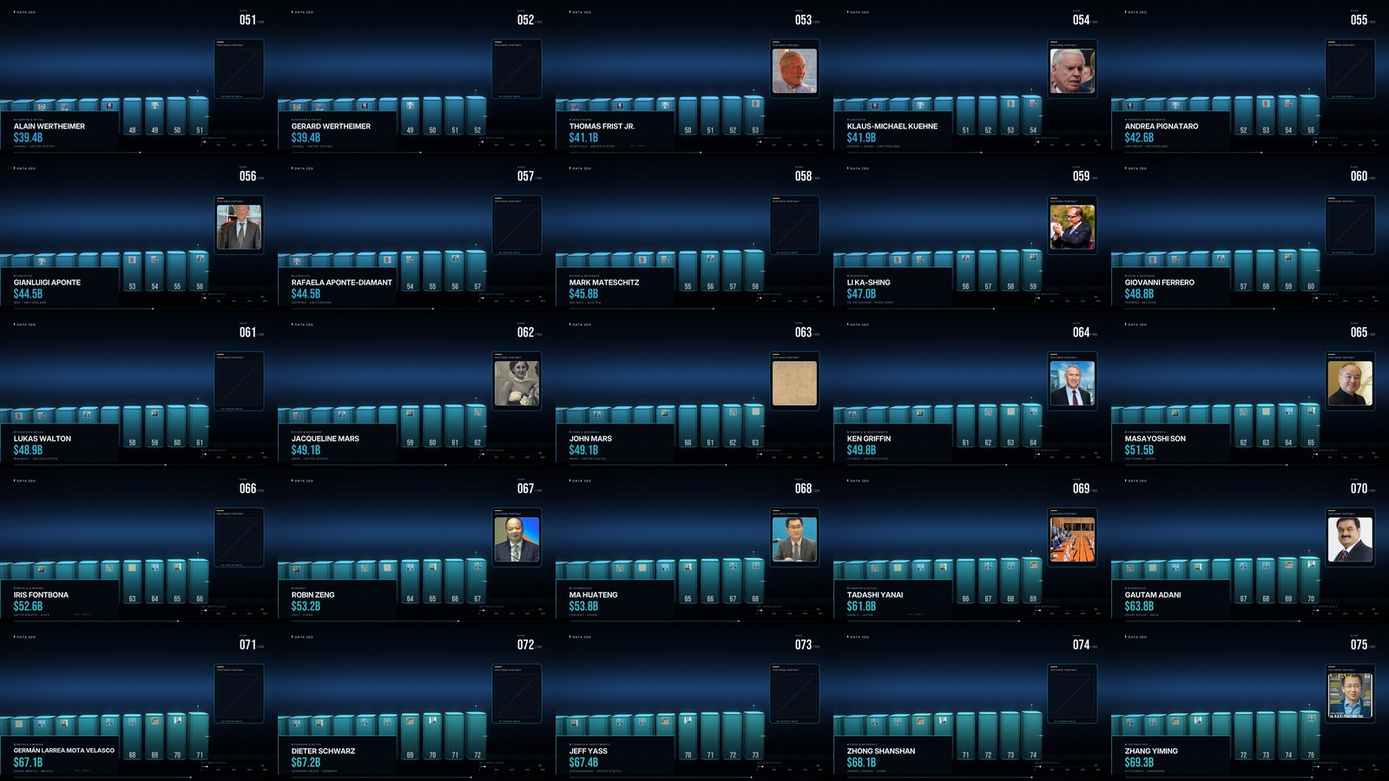
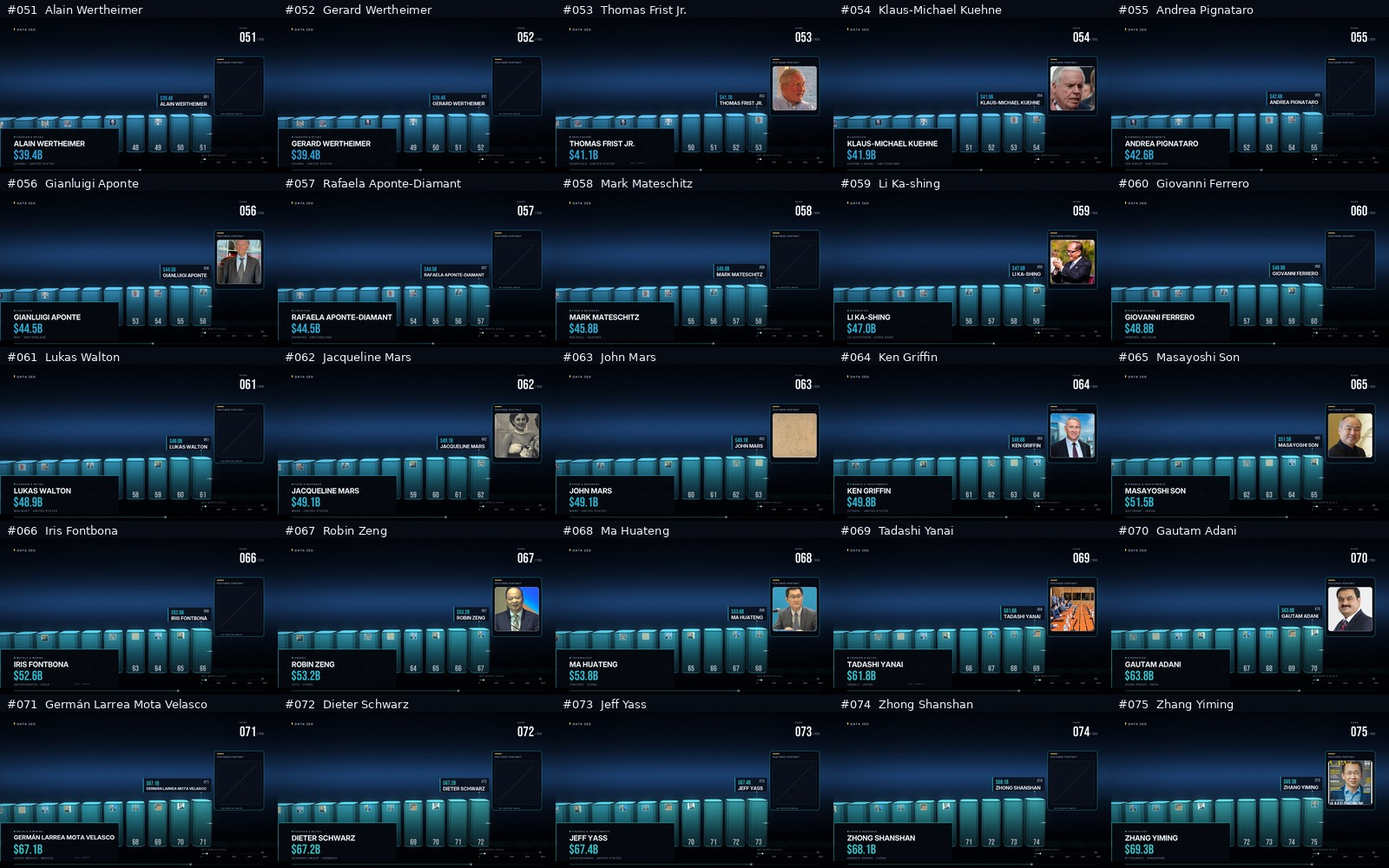
Fix synchronized rank reveals and refresh datavid QA preview

diff --git a/scripts/datavid/scene.py b/scripts/datavid/scene.py
@@ -15,13 +15,26 @@ _GRAIN = [_rng.normal(0, 3.0, (H, W, 1)).astype(np.float32) for _ in range(6)]
 def u_of_t(t):
     if t <= T_INTRO:
         return 0.0
-    tt = (t - T_INTRO) / PER_BAR
-    if tt >= N:
+    if t >= T_COUNT_END:
         return float(N)
-    i = math.floor(tt)
-    s = tt - i
-    s2 = smoothstep((s - 0.10) / 0.78)
-    return min(float(N), i + s2)
+    # Make each bar's local progress a direct function of wall-clock time.
+    # The active rank, tower rise, featured portrait, and label now switch at
+    # the same boundary instead of the old delayed eased threshold.
+    return clamp((t - T_INTRO) / PER_BAR, 0.0, float(N))
+
+
+def active_rank_state(t):
+    """Return zero-based active rank, within-rank phase, and shared HUD alpha."""
+    if t < T_INTRO or t >= T_COUNT_END:
+        return None, 0.0, 0
+    elapsed = t - T_INTRO
+    index = min(N - 1, int(elapsed / PER_BAR))
+    phase = clamp((elapsed - index * PER_BAR) / PER_BAR, 0.0, 1.0)
+    # All rank-specific identity elements use one short enter/exit envelope.
+    # This clears the previous portrait and copy before the next tower begins.
+    fade_in = 0.72 + 0.28 * smoothstep(phase / 0.035)
+    fade_out = smoothstep((1.0 - phase) / 0.055)
+    return index, phase, int(255 * min(fade_in, fade_out))
 
 
 def reveal_of(t, i):
@@ -439,23 +452,26 @@ def render(t, fi=0):
 
     # ---- typography on top of the graded scene
     if t < T_INTRO:
-        a = int(255 * clamp((t - 8.4) / 1.0, 0, 1))
+        intro_rank = clamp((t - 8.4) / 1.0, 0, 1)
+        clear_before_countdown = 1 - smoothstep((t - (T_INTRO - 0.65)) / 0.65)
+        a = int(255 * intro_rank * clear_before_countdown)
         if a > 0:
             Hd.draw_topbar(out, PEOPLE[0], 1, alpha=a, total=N)
     elif t < T_COUNT_END:
-        idx = int(clamp(int(u) + 1, 1, N))
-        p = PEOPLE[idx - 1]
-        appear = clamp((t - T_INTRO) / 0.7, 0, 1)
-        Hd.draw_topbar(out, p, idx, alpha=int(255 * appear), total=N)
-        Hd.draw_card(out, p, alpha=255, appear=appear)
-        Hd.draw_scale(out, p['worth'], alpha=int(235 * appear))
-        Hd.draw_progress(out, (idx - 1) / max(1, N - 1), tier_color(p['worth']), alpha=int(220 * appear))
-        Hd.draw_plate(out, cam, p, idx, alpha=int(255 * appear), scale=1.0)
-        draw_feature_portrait(out,idx-1,alpha=int(255*appear))
+        active_index, phase, active_alpha = active_rank_state(t)
+        idx = active_index + 1
+        p = PEOPLE[active_index]
+        Hd.draw_topbar(out, p, idx, alpha=active_alpha, total=N)
+        Hd.draw_card(out, p, alpha=active_alpha, appear=1.0)
+        Hd.draw_scale(out, p['worth'], alpha=int(235 * active_alpha / 255))
+        Hd.draw_progress(out, (idx - 1) / max(1, N - 1), tier_color(p['worth']),
+                         alpha=int(220 * active_alpha / 255))
+        Hd.draw_plate(out, cam, p, idx, alpha=active_alpha, scale=1.0)
+        draw_feature_portrait(out, active_index, alpha=active_alpha)
     else:
         p = PEOPLE[-1]
-        Hd.draw_topbar(out, p, N, alpha=255, total=N)
-        Hd.draw_card(out, p, alpha=255, appear=clamp(1 - (t - T_COUNT_END) / 1.0, 0, 1))
+        # Rank-specific topbar, plate and portrait have all cleared at the
+        # boundary. Only the finale progress trace may remain on screen.
         pr = int(220 * (1 - clamp((t - T_FINALE_END) / 1.0, 0, 1)))
         Hd.draw_progress(out, 1.0, tier_color(p['worth']), alpha=pr)
 

diff --git a/scripts/datavid/build.py b/scripts/datavid/build.py
@@ -1,5 +1,5 @@
 """Parallel render -> x264 segments -> concat -> mux score."""
-import os, sys, time, subprocess, argparse
+import os, sys, time, subprocess, argparse, hashlib, json, glob
 from multiprocessing import Pool
 
 import engine as E
@@ -10,6 +10,58 @@ ROOT = E.ROOT
 OUT = os.path.join(ROOT, 'out')
 SEG = os.path.join(OUT, 'seg')
 CHUNK = 300
+SIGNATURE = os.path.join(OUT, '.render_signature.json')
+
+
+def source_fingerprint(chunk=CHUNK):
+    """Hash every input that can change a rendered frame or the score."""
+    code_dir = os.path.dirname(os.path.abspath(__file__))
+    paths = glob.glob(os.path.join(code_dir, '*.py'))
+    paths += glob.glob(os.path.join(code_dir, 'fonts', '*'))
+    paths += [os.path.join(os.path.dirname(code_dir), 'render.py')]
+    paths += [os.path.join(ROOT, name) for name in
+              ('config.json', 'data.json', 'image_sources.json')]
+    try:
+        manifest = json.load(open(os.path.join(ROOT, 'image_sources.json')))
+        paths += [os.path.join(ROOT, row['local_path']) for row in manifest
+                  if row.get('local_path')]
+    except (OSError, ValueError, TypeError):
+        pass
+    digest = hashlib.sha256()
+    digest.update(f'chunk={chunk};frames={TOTAL};fps={FPS}'.encode())
+    for path in sorted(set(paths)):
+        if not os.path.isfile(path):
+            digest.update(('MISSING:' + os.path.relpath(path, ROOT)).encode())
+            continue
+        digest.update(os.path.relpath(path, ROOT).encode())
+        with open(path, 'rb') as f:
+            for block in iter(lambda: f.read(1024 * 1024), b''):
+                digest.update(block)
+    return digest.hexdigest()
+
+
+def invalidate_stale_cache(force=False, chunk=CHUNK):
+    """Never concatenate segments rendered from a different code/data version."""
+    current = source_fingerprint(chunk=chunk)
+    previous = None
+    try:
+        previous = json.load(open(SIGNATURE)).get('sha256')
+    except (OSError, ValueError, AttributeError):
+        pass
+    if force or previous != current:
+        stale = glob.glob(os.path.join(SEG, 'seg_*.mp4'))
+        for path in stale:
+            os.remove(path)
+        for name in ('video_silent.mp4', 'segs.txt', 'score.wav'):
+            path = os.path.join(OUT, name)
+            if os.path.exists(path):
+                os.remove(path)
+        print(f'render inputs changed; invalidated {len(stale)} cached segments', flush=True)
+    os.makedirs(OUT, exist_ok=True)
+    tmp = SIGNATURE + '.tmp'
+    with open(tmp, 'w') as f:
+        json.dump({'sha256': current}, f)
+    os.replace(tmp, SIGNATURE)
 
 
 def chunks_list(chunk=CHUNK):
@@ -44,7 +96,8 @@ def work(args):
     return idx, f1 - f0, time.time() - t0
 
 
-def run(workers=6, chunk=CHUNK, audio=True, mux=True):
+def run(workers=6, chunk=CHUNK, audio=True, mux=True, force=False):
+    invalidate_stale_cache(force=force, chunk=chunk)
     os.makedirs(SEG, exist_ok=True)
     chunks = chunks_list(chunk)
     t0 = time.time()
@@ -82,5 +135,6 @@ if __name__ == '__main__':
     ap = argparse.ArgumentParser()
     ap.add_argument('--workers', type=int, default=6)
     ap.add_argument('--chunk', type=int, default=CHUNK)
+    ap.add_argument('--force', action='store_true', help='discard cached segments and render all frames')
     a = ap.parse_args()
-    run(workers=a.workers, chunk=a.chunk)
+    run(workers=a.workers, chunk=a.chunk, force=a.force)

diff --git a/scripts/datavid/hud.py b/scripts/datavid/hud.py
@@ -153,33 +153,43 @@ def draw_plate(im, cam, p, idx, alpha=255, scale=1.0):
     a = int(alpha)
 
     name = p['name'].upper()
+    rk = "#" + str(idx)
+    frk = font(BEBAS, int(30 * scale))
+    wr = tw(d, rk, frk, 0)
     fs = int(33 * scale)
     f = font(I_BOLD, fs)
-    while tw(d, name, f, 0.5) > 470 * scale and fs > 14:
+    while tw(d, name, f, 0.5) > min(430 * scale, 520 * scale - 48 * scale - wr) and fs > 11:
         fs -= 1
         f = font(I_BOLD, fs)
     wn = tw(d, name, f, 0.5)
     fw = font(BEBAS, int(40 * scale))
     ws = tw(d, fmt_money(p['worth']), fw, 0)
-    pw = max(wn, ws) + 46 * scale
+    pw = min(520 * scale, max(190 * scale, max(wn, ws) + 46 * scale))
     ph = 98 * scale
 
-    # connector
-    d.line([(sx, sy + 6), (sx, pt[1] - 4)], fill=col + (int(a * 0.55),), width=2)
-    d.ellipse([sx - 3, sy + 2, sx + 3, sy + 8], fill=(255, 255, 255, a))
-
-    x0 = sx - pw / 2
-    y0 = sy - ph
-    # avoid colliding with the lower-third card
-    if x0 < 930 and y0 + ph > 706:
-        return
-    # The enlarged portrait occupies reserved negative space on the right.
-    # Suppress a floating nameplate rather than allowing either to cover text.
+    # Use one deterministic callout lane for every active rank. The old code
+    # silently returned when this plate touched the lower-third or portrait,
+    # making labels disappear for parts of the countdown.
     panel = E.cfg('feature_portrait_box', [1480, 270, 344, 410])
     px, py, pwidth, pheight = panel
-    if (x0 < px + pwidth and x0 + pw > px and
-            y0 < py + pheight and y0 + ph > py):
-        return
+    lane_left = 930 * scale
+    lane_right = min((W - 96) * scale, (px - 18) * scale)
+    max_pw = max(180 * scale, lane_right - lane_left)
+    pw = min(pw, max_pw)
+    x0 = clamp(sx - pw / 2, lane_left, lane_right - pw)
+    y0 = clamp(sy - ph, 8 * scale, 710 * scale)
+
+    # Connect the active tower to the fixed, collision-free label lane.
+    tx = clamp(sx, x0 + 18 * scale, x0 + pw - 18 * scale)
+    if y0 + ph < pt[1] - 4 * scale:
+        start, end = (tx, y0 + ph), (sx, pt[1] - 4 * scale)
+    else:
+        start, end = (sx, pt[1] + 4 * scale), (tx, y0)
+    d.line([start, end], fill=col + (int(a * 0.55),), width=2)
+    d.ellipse([tx - 3 * scale, (y0 + ph if y0 + ph < pt[1] - 4 * scale else y0) - 3 * scale,
+               tx + 3 * scale, (y0 + ph if y0 + ph < pt[1] - 4 * scale else y0) + 3 * scale],
+              fill=(255, 255, 255, a))
+
     lay = Image.new('RGBA', (int(pw) + 2, int(ph) + 2), (0, 0, 0, 0))
     dl = ImageDraw.Draw(lay)
     dl.rectangle([0, 0, int(pw), int(ph)], fill=(8, 12, 20, int(a * 0.80)),
@@ -190,6 +200,4 @@ def draw_plate(im, cam, p, idx, alpha=255, scale=1.0):
     text_alpha(im, (x0 + 22 * scale, y0 + 12 * scale), fmt_money(p['worth']), fw, col, a)
     text_alpha(im, (x0 + 22 * scale, y0 + 55 * scale), name, f, (236, 242, 255), a)
     # rank chip right
-    rk = "#" + str(idx)
-    frk = font(BEBAS, int(30 * scale))
     text_alpha(im, (x0 + pw - 18 * scale - tw(d2, rk, frk, 0), y0 + 8 * scale), rk, frk, (140, 156, 178), a)

diff --git a/scripts/datavid/engine.py b/scripts/datavid/engine.py
@@ -141,7 +141,14 @@ def item_image(index):
     if index not in _IMAGE_CACHE:
         image = None
         if 0 <= index < len(IMAGE_MANIFEST):
-            rel = IMAGE_MANIFEST[index].get('local_path')
+            record = IMAGE_MANIFEST[index]
+            # The manifest is rank-indexed; fail closed if data and attribution
+            # were reordered, so one person's portrait can never label another.
+            expected_rank = PEOPLE[index]['pos']
+            if int(record.get('rank', expected_rank)) != expected_rank or record.get('name') != PEOPLE[index]['name']:
+                _IMAGE_CACHE[index] = None
+                return None
+            rel = record.get('local_path')
             if rel:
                 path = os.path.join(ROOT, rel)
                 try:
@@ -668,12 +675,19 @@ def draw_one_bar(im, emissive, cam, i, h, u, vz, show_rank=True):
             d.line([tuple(q[:2]) for q in top]+[tuple(top[0,:2])],
                    fill=(224,246,255,pulse),width=2)
     portrait=item_image(i)
-    # Keep the square wholly inside the flat face: inset from both chamfered
-    # edges, the cap seam, and the rank-number zone below it.
+    # Keep an on-column portrait on every verified-image bar, including the
+    # short early towers. Shrink it to the available upper-face zone instead
+    # of silently omitting it when the configured default would overlap rank.
     safe_width=max(0.0, BW-2*(bevel+0.24))
-    side=min(float(cfg('bar_image_size',1.28)),safe_width)
-    if portrait is not None and side>=0.60 and h>=side+1.90:
-        y1=h-0.42; y0=y1-side
+    rank_y0=0.20
+    rank_box_h=min(1.38,max(0.70,h*0.48))
+    rank_y1=min(h-0.16,rank_y0+rank_box_h)
+    image_bottom=h-0.22
+    image_top_min=rank_y1+0.10
+    fit_height=max(0.0,image_bottom-image_top_min)
+    side=min(float(cfg('bar_image_size',1.28)),safe_width,fit_height)
+    if portrait is not None and side>=0.42:
+        y1=image_bottom; y0=y1-side
         z=BD/2+0.010
         x0,x1=-side/2,side/2
         quad3=[bar_base(i)+np.array([x0,y1,z]),bar_base(i)+np.array([x1,y1,z]),
@@ -692,13 +706,13 @@ def draw_one_bar(im, emissive, cam, i, h, u, vz, show_rank=True):
             d=ImageDraw.Draw(im,'RGBA')
             d.line([tuple(q[:2]) for q in pq]+[tuple(pq[0,:2])],
                    fill=mix(col,(255,255,255),0.68)+(int(225*(1-fog)),),width=2)
-    if show_rank and vz<80 and h>1.45:
+    if show_rank and h>0.80:
         # Oversized rank occupies roughly half the front-face height. It is
         # placed below the portrait zone and inset from the bevels.
         face_w=max(0.55,BW-2*(bevel+0.20))
-        box_h=min(1.38,max(0.70,h*0.48))
-        y0=0.20
-        y1=min(h-0.16,y0+box_h)
+        box_h=rank_box_h
+        y0=rank_y0
+        y1=rank_y1
         if y1-y0>=0.55:
             quad=cam.project(np.asarray([bar_base(i)+np.array([-face_w/2,y1,BD/2+0.014]),bar_base(i)+np.array([face_w/2,y1,BD/2+0.014]),
                  bar_base(i)+np.array([face_w/2,y0,BD/2+0.014]),bar_base(i)+np.array([-face_w/2,y0,BD/2+0.014])]))

diff --git a/projects/richest-2026/storyboard/storyboard.md b/projects/richest-2026/storyboard/storyboard.md
@@ -2,7 +2,7 @@
 
 **پیشنویس بازبینی · ۱۸۰ ثانیه · ۱۹۲۰×۱۰۸۰ · ۳۰fps · دوربین روبهرو · ستونهای منشوری نرم و مات**
 
-این نسخهٔ تازه ستونهای منشوری مکعبی، پررنگ و مات با گوشههای نرم را حفظ میکند. تصویر تأییدشده روی وجه ستون کوچک و با حاشیهٔ امن از پخها/خطوط مینشیند؛ همزمان همان پرتره در قاب بزرگِ هماندازه و ثابت در فضای خالی سمت راست نمایش داده میشود. برای فرد فاقد تصویر تأییدشده، قاب بزرگ خالی میماند و هیچ تصویر نامرتبطی جایگزین نمیشود. شمارهٔ رتبه روی نیمهٔ پایینی وجه ستون بسیار بزرگ شده است. قاب پرتره و پلاک شناور همدیگر را میپوشانند: در صورت برخورد، پلاک شناور پنهان میشود تا متن روی عکس نیفتد. برند DATA ZED و نشان YouTube، چیدمان مقدمه و پایانکارت طبق طرح مصوب قبلی حفظ شدهاند.
+این نسخهٔ تازه ستونهای منشوری مکعبی، پررنگ و مات با گوشههای نرم را حفظ میکند. تصویر تأییدشده روی وجه ستون کوچک و با حاشیهٔ امن از پخها/خطوط مینشیند؛ همزمان همان پرتره در قاب بزرگِ هماندازه و ثابت در فضای خالی سمت راست نمایش داده میشود. برای فرد فاقد تصویر تأییدشده، قاب بزرگ خالی میماند و هیچ تصویر نامرتبطی جایگزین نمیشود. شمارهٔ رتبه روی نیمهٔ پایینی وجه ستون بسیار بزرگ شده است. پلاک شناور در ناحیهٔ امن ثابت، بیرون از محدودهٔ قاب پرتره و lower-third قرار میگیرد؛ در برخوردهای فرضی، جای پلاک عوض/بازچینی میشود و هرگز بیصدا حذف نمیشود. برند DATA ZED و نشان YouTube، چیدمان مقدمه و پایانکارت طبق طرح مصوب قبلی حفظ شدهاند.
 
 برداشت cadence در این پیشنویس: رتبههای ۱ تا ۹۰ همچنان تکبهتک معرفی و قابلخواندناند، اما در انتهای هر فصل دهرتبهای یک ضربهٔ رشد/ترنزیشن برجسته در رتبههای ۱۰، ۲۰، …، ۹۰ میآید. رتبههای ۹۱ تا ۱۰۰ هرکدام رشد مستقل و مکث خواندنی خودشان را دارند. هر ستون در ۴۶٪ نخست نوبتش بالا میآید و سپس برای خواندن اطلاعات مکث میکند.
 
@@ -22,7 +22,7 @@
 
 ## فریمهای مکث هر ۱۰۰ رتبه
 
-در صورت وجود تصویرِ دقیق و دارای مجوز، پنجرهٔ مربعی هماندازه در بخش بالایی وجه جلوی ستون قرار میگیرد. هیچ تصویر نامرتبطی جایگزین نشده است. فریمهای مکث و نمونههای این تماسشیتها با نسخهٔ ماتِ پررنگ بازتولید و برای همپوشانی آشکار متن، برش و ایرادهای واضح گرافیکی بازبینی شدهاند.
+در صورت وجود تصویرِ دقیق و دارای مجوز، پنجرهٔ مربعی هماندازه در بخش بالایی وجه جلوی ستون قرار میگیرد. اندازهٔ عکس روی ستون برای برج کوتاه بهطور تطبیقی کوچک میشود، نه اینکه صرفاً بهدلیل ارتفاع پیشفرض حذف شود. هیچ تصویر نامرتبطی جایگزین نشده است. فریمهای مکث و تماسشیتهای این نسخه با timing جدید بازتولید شدهاند.
 
 ### رتبههای 1 تا 25
 
@@ -170,7 +170,7 @@
 
 ## بازبینی
 
-این سند، پیشنمایش طرح است؛ MP4 کامل سهدقیقهای پس از تأیید صریح همین نسخهٔ استوریبورد ساخته میشود. تماسشیتهای رتبهها نیز فریمهای نمونه/مکث هستند، نه رندر ویدیوی کامل.
+این سند، پیشنمایش طرح است؛ MP4 کامل سهدقیقهای پس از تأیید صریح همین نسخهٔ استوریبورد ساخته میشود. تماسشیتهای رتبهها و QA مرزها فریمهای نمونه/مکث هستند، نه رندر ویدیوی کامل.
 
 
 ## موشنگرافیک در شمارش معکوس و cadence رشد — نسخهٔ تازه برای بازبینی
@@ -183,14 +183,14 @@
 
 | نمونهٔ فریم | زمان (ثانیه) | اتفاق |
 |---|---:|---|
-| رتبهٔ ۱۰ — رشد / مکث | 25.59 / 26.09 | پایان فصل نخست دهرتبهای |
-| رتبهٔ ۲۰ — رشد / مکث | 40.19 / 40.69 | تأکید فصل دوم |
-| رتبهٔ ۹۰ — رشد / مکث | 142.54 / 142.89 | پایان بازهٔ فصلهای دهتایی |
-| رتبهٔ ۹۱ — رشد / مکث | 143.85 / 144.35 | آغاز رشدهای مستقل ده رتبهٔ پایانی |
-| رتبهٔ ۹۵ — رشد / مکث | 149.69 / 150.19 | نمونهٔ میانی بخش پایانی |
-| رتبهٔ ۱۰۰ — رشد / مکث | 157.00 / 157.49 | رشد نهایی تا ارتفاع واقعی و مکث اوج |
+| رتبهٔ ۱۰ — رشد / مکث | 25.39 / 26.09 | پایان فصل نخست دهرتبهای |
+| رتبهٔ ۲۰ — رشد / مکث | 39.99 / 40.69 | تأکید فصل دوم |
+| رتبهٔ ۹۰ — رشد / مکث | 142.19 / 142.89 | پایان بازهٔ فصلهای دهتایی |
+| رتبهٔ ۹۱ — رشد / مکث | 143.65 / 144.35 | آغاز رشدهای مستقل ده رتبهٔ پایانی |
+| رتبهٔ ۹۵ — رشد / مکث | 149.49 / 150.19 | نمونهٔ میانی بخش پایانی |
+| رتبهٔ ۱۰۰ — رشد / مکث | 156.79 / 157.49 | رشد نهایی تا ارتفاع واقعی و مکث اوج |
 
-در همهٔ ۱۰۰ رتبه تماسشیتهای مکث از نسخهٔ فعلی کد بازسازی شدهاند. قاب بزرگ پرتره هماندازه و در مختصات ثابت صفحه میماند؛ در صورت نبود تصویر دقیق و تأییدشده، قاب خالی است. عکس کوچک روی وجه ستون داخل محدودهٔ تختِ وجه و دور از پخها و خطوط قرار میگیرد؛ شماره در ناحیهٔ پایین و تقریباً به اندازهٔ نیمی از ارتفاع وجه نمایش داده میشود. اگر پلاک شناور با قاب پرتره برخورد کند، پلاک حذف میشود؛ پنل اطلاعات نیز تقریباً مات است تا شمارههای ستون از پشت متن دیده نشوند.
+در همهٔ ۱۰۰ رتبه تماسشیتهای مکث از نسخهٔ فعلی کد بازسازی شدهاند. قاب بزرگ پرتره هماندازه و در مختصات ثابت صفحه میماند؛ در صورت نبود تصویر دقیق و تأییدشده، قاب خالی است. عکس کوچک روی وجه ستون داخل محدودهٔ تختِ وجه و دور از پخها و خطوط قرار میگیرد؛ برای برج کوتاه، عکس در ناحیهٔ امن کوچک میشود. شماره در ناحیهٔ پایین و تقریباً به اندازهٔ نیمی از ارتفاع وجه نمایش داده میشود. پلاک شناور در ناحیهٔ امنِ جدا از پنل پرتره و lower-third قرار دارد و نام/رتبه در پلاک برای همهٔ رتبهها حفظ میشود.
 
 ![تماسشیت رتبههای ۱ تا ۲۵](countdown-01.jpg)
 
@@ -206,6 +206,16 @@
 
 ![نمونهٔ مکث رتبهٔ ۱۰۰](rank-100-hold.jpg)
 
+## زمانبندی هماهنگ و QA مرزها — نسخهٔ تازه برای تأیید
+
+برای رتبهٔ `i`، شروع دقیق `12.00 + (i−1) × 1.46` ثانیه و پایان `12.00 + i × 1.46` ثانیه است. در همان شروع، رشد ستون، topbar، lower-third، پلاک نام/دارایی و قاب بزرگ تصویر همان رتبه فعال میشوند. یک envelope مشترک کوتاه روی عناصر هویتی اعمال میشود؛ اطلاعات رتبهٔ قبلی پیش از مرز پاک میشوند. در پایان رتبهٔ ۱۰۰ نیز topbar، پلاک و قاب بزرگ بلافاصله کنار میروند.
+
+![تماسشیت شروع، رشد، مکث، انتقال رتبههای ۱ و ۲، نمونهٔ میانی و پایان رتبهٔ ۱۰۰](rank-cycle-qa.jpg)
+
+تماسشیت موشن تازه، رشد و مکث رتبههای ۱۰، ۲۰، ۹۰ و تکتک رتبههای ۹۱ تا ۱۰۰ را کنار هم نشان میدهد؛ تماسشیت رشد نیز فریم رشدِ هرکدام از این فصلها را جدا میکند.
+
+چهار تماسشیت بالاتر، فریم مکث تازهٔ هر ۱۰۰ رتبه را نشان میدهند. در ردیفهای دارای تصویر، قاب بزرگ و عکس روی ستون از همان داراییِ تأییدشدهاند؛ برای ۳۱ رتبهٔ فاقد دارایی، قاب بزرگ با پیام `NO VERIFIED IMAGE` خالی میماند. پوشش کنونی ۶۹/۱۰۰ است؛ هیچ جانشین نامرتبطی استفاده نشده.
+
 ## بازبینی نهایی طرح
 
-این فایل و تصاویر پیوندخورده پیشنمایش استوریبورد هستند؛ هیچ MP4 کامل سهدقیقهای در این مرحله رندر نشده است. لطفاً cadence رشد دهتایی، قاب ثابت پرتره و اندازهٔ شمارهها را بررسی کنید و بگویید چه اصلاحی میخواهید. فقط پس از تأیید صریح همین نسخه، رندر MP4 کامل آغاز میشود.
+این فایل و تصاویر پیوندخورده پیشنمایش storyboard هستند؛ در این مرحله هیچ MP4 کامل سهدقیقهای رندر نشده است. فریمهای مرزی و تماسشیتهای تمام ۱۰۰ رتبه از نسخهٔ اصلاحشده بازتولید شدهاند. لطفاً زمان شروع/پایان هر رتبه، حضور متن و قاب بزرگ در نمونهٔ مرزی، فاصلهٔ متنها و cadence رشد را بررسی کنید. فقط پس از تأیید صریح همین نسخه و انتخاب کیفیت(های) خروجی، رندر کامل MP4 آغاز میشود.

diff --git a/SKILL.md b/SKILL.md
@@ -5,7 +5,7 @@ description: Produce ranked data documentaries as procedural 3D tower videos. Us
 
 # datavid — ranked 3D tower documentaries
 
-Render a 3:00 1080p30 master by default. Before each full render, always ask which delivery resolution(s) the user wants; offer 144p, 240p, 360p, 480p, 720p, and 1080p, allowing one or multiple choices. Do not assume they want all sizes or silently select a quality. Render the master once at 1080p, then encode the requested deliverables from it. Each ranked entity receives a 3D column with topic-appropriate geometry: a softly chamfered cuboid by default for ranked-person videos, or a selectable cylinder/other shape when the topic or user calls for it. Keep user-selected width; soften corners rather than making them sharp. Default to vivid, opaque solid columns; use glass only when explicitly requested. For countdowns, arrange several columns side-by-side across the frame and track laterally with a straight-on, front-facing camera. Show its name, value, and rank on the front face. Keep any locally cached subject image fully inside the flat face with a clear inset from chamfers, outlines, cap seams, and text; omit it when the bar is too short rather than clipping it. Make the rank numeral large (roughly half the visible face height) in a separate lower zone. When a verified image exists, also show it in a larger, fixed-size square/circular portrait card in reserved negative space; keep identical dimensions and framing for every subject, and show an empty labeled frame rather than an unrelated image when no verified asset exists. Render graphics and audio in code; use downloaded entity images only when they add subject identity. Never depend on remote assets at render time.
+Render a 3:00 1080p30 master by default. Before each full render, always ask which delivery resolution(s) the user wants; offer 144p, 240p, 360p, 480p, 720p, and 1080p, allowing one or multiple choices. Do not assume they want all sizes or silently select a quality. Render the master once at 1080p, then encode the requested deliverables from it. Each ranked entity receives a 3D column with topic-appropriate geometry: a softly chamfered cuboid by default for ranked-person videos, or a selectable cylinder/other shape when the topic or user calls for it. Keep user-selected width; soften corners rather than making them sharp. Default to vivid, opaque solid columns; use glass only when explicitly requested. For countdowns, arrange several columns side-by-side across the frame and track laterally with a straight-on, front-facing camera. Every ranked item must receive its own visible name, value, and rank for its full active interval. Keep each locally cached exact-subject image inside the flat face with a clear inset from chamfers, outlines, cap seams, and text; adaptively shrink it to the safe face area instead of dropping it because a tower is short. If a verified image still cannot fit, fail QA and fix the layout. Make the rank numeral large (roughly half the visible face height) in a separate lower zone. When a verified image exists, also show it in a larger, fixed-size square/circular portrait card in reserved negative space; keep identical dimensions and framing for every subject, and show an empty labeled frame rather than an unrelated image when no verified asset exists. Never claim complete image coverage when verified assets are missing. Render graphics and audio in code; use downloaded entity images only when they add subject identity. Never depend on remote assets at render time.
 
 ## Inputs and ranking
 
@@ -29,11 +29,21 @@ Each `data.json` item may contain:
 2. Create the project with `python3 scripts/new_project.py /path/to/project`, then fill `data.json` and `config.json`.
 3. Choose visuals deliberately. Set project-level `visual_mode` to `person`, `country`/`flag`, `vehicle`, `building`, `company`, or `auto`; an item-level `visual_type` overrides it. For a known homogeneous topic, set the explicit project mode rather than relying on `auto`. For mixed lists, tag each row. People require a portrait of that exact person; countries require their flag; vehicles/buildings/products require the named subject; companies use a representative subject image, not an unrelated person. Set `image_query` and `country` when needed to disambiguate.
 4. Run `python3 scripts/datavid/fetch_images.py --project /path/to/project`. It checks Wikipedia page images and Wikimedia Commons, accepts public-domain, CC0, CC BY, or CC BY-SA images, downloads them locally, and writes `image_sources.json` with artist, license, and source page. Review a contact sheet and inspect doubtful matches; never substitute a similarly named person, generic image, or other unrelated result. If no exact, usable image is found, leave the panel blank and document the gap. The renderer has no network dependency. Respect each license and preserve the attribution manifest when redistributing a project. See `references/image-sourcing.md` for resolver behavior and visual-type guidance.
-5. Render stills around the intro, first item, middle, final item, finale, and end card: `python3 scripts/render.py --project /path --stills 2 6 10 14 90 150 168 176` (adjust to duration). Also sample growth, reading-hold, and rank-transition phases for early, middle, and final items. Inspect every title lockup, lower third, scale, portrait, plate, finale, and end card for clipped glyphs, text-to-text collisions, unwanted transparency, and graphic artifacts; correct and regenerate the affected stills.
+5. Render stills around the intro, first item, middle, final item, finale, and end card: `python3 scripts/render.py --project /path --stills 2 6 10 14 90 150 168 176` (adjust to duration). Also sample exact rank boundaries, growth, reading-hold, last pre-boundary frame, and first post-boundary frame for early, middle, and final items. Inspect every title lockup, lower third, scale, portrait, plate, finale, and end card for clipped glyphs, text-to-text collisions, unwanted transparency, and graphic artifacts; correct and regenerate the affected stills.
 6. Use ten-rank chapters for the main countdown: retain an individual readable reveal for each item, add a stronger grouped growth/transition cue at ranks 10, 20, …, 90, then give each of the final ten ranks its own distinct growth beat and reading hold. Make this cadence explicit in `storyboard.md`. Before the full video render, prepare the storyboard with a reading-hold frame for each ranked reveal and a compact motion contact sheet showing growth, holds, chapter gates, the final ten, and transitions. Share it for review and wait for explicit user approval before any full-length MP4 render. Do not treat approval of an older preview as approval for a changed storyboard.
 7. Before starting the full render, ask which output resolutions are wanted: 144p (256×144), 240p (426×240), 360p (640×360), 480p (854×480), 720p (1280×720), and 1080p (1920×1080). Permit multiple selections. If the current request explicitly names the desired sizes, treat that as the answer; otherwise wait for the user's choice.
 8. Render one 1080p30 master, then create a separate MP4 for each selected resolution using `scripts/datavid/export_qualities.sh <master.mp4> <output-dir> <resolution...>`. Keep the source aspect ratio (letterbox/pad rather than crop when necessary), frame rate, duration, and audio. Use names `<master-stem>_<resolution>.mp4`; never overwrite the source master or an existing deliverable. Preserve the master even when 1080p is selected.
 9. Verify each output's dimensions, duration, frame rate, codecs, audio stream, and full decode. Add all requested MP4s to Git LFS and push them with the project when authorized. Deliver links to each requested quality and the source project.
+
+## Exact active-rank timing and graphics QA
+
+- Use `start(i) = T_INTRO + (i−1) × PER_BAR` and `end(i) = start(i) + PER_BAR` as the single timing source for rank `i`. At the same start boundary, activate its column rise, top information, name/value/rank plate, and enlarged portrait card. Use one shared short alpha envelope for all rank-specific overlays; do not let any overlay wait for a different easing threshold.
+- Clear the active portrait, top information, and floating plate by the rank's end boundary, before the next item becomes active. Test the final frame before a boundary, the boundary itself, and the first frame after it. Do not carry the previous rank's identity into the next rank.
+- Never suppress a required information plate because it intersects a portrait or lower-third. Reserve a deterministic callout lane outside the lower-third and large portrait card; use a connector back to the active tower. Fit the rank chip and name without overlap, shrinking or reflowing the name where needed. If the layout cannot be made collision-free, fail QA and adjust the design rather than silently hiding text.
+- Keep every available local portrait on its matching tower and in the same large-card geometry. Match the image manifest to the exact rank and exact display name; on mismatch, fail closed to the empty labeled frame. Use only verified, properly licensed exact-subject images. For missing images, leave the fixed large card explicitly empty and document the coverage gap; never insert a similar-looking or unrelated image.
+- Before requesting approval, regenerate the current storyboard and contact sheets from the fixed code. Review all 100 reading holds plus representative exact start/growth/hold/transition samples; inspect both image-present and image-missing cases. State actual verified image coverage and unresolved gaps. A previously approved storyboard does not approve a changed timing or layout.
+- Invalidate rendered segment caches whenever code, project settings, ranking data, image manifest, fonts, local source images, frame rate, frame count, or chunk size changes. Provide a force-rebuild option. Never concatenate cached segments from differing render inputs.
+- A still/contact-sheet QA render is permitted before approval; do not start the full-length MP4 render until the user explicitly approves the current storyboard. Before a full render, also ask for one or more output qualities from the resolution menu unless the request already specifies them.
 
 ## Delivery resolutions
 
